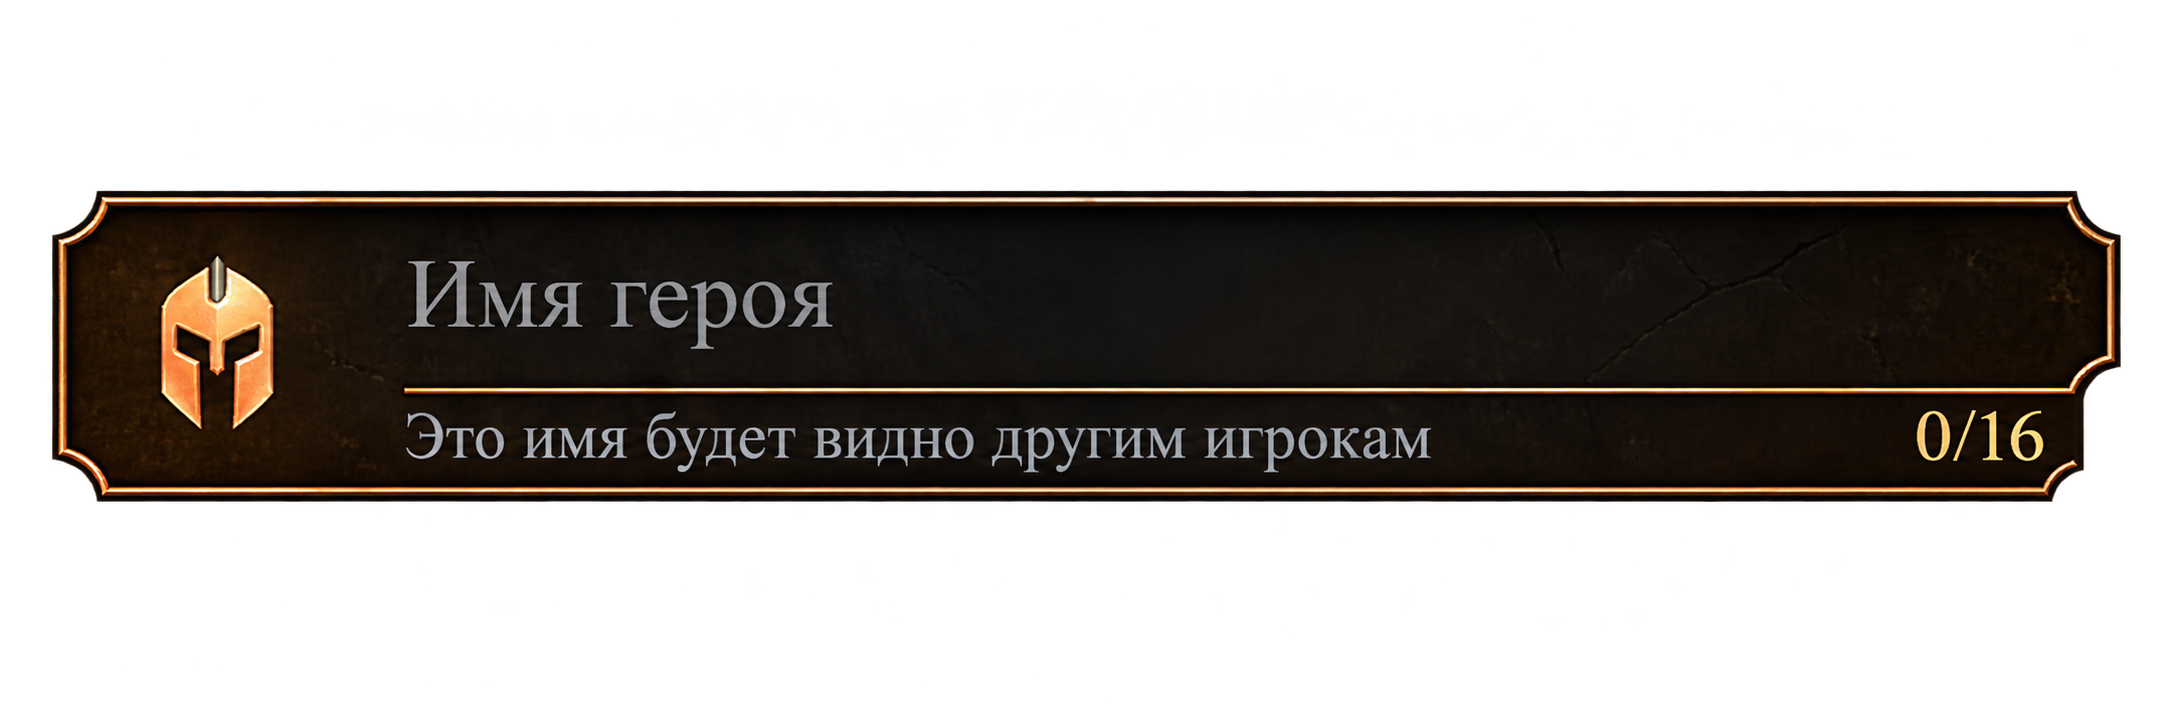
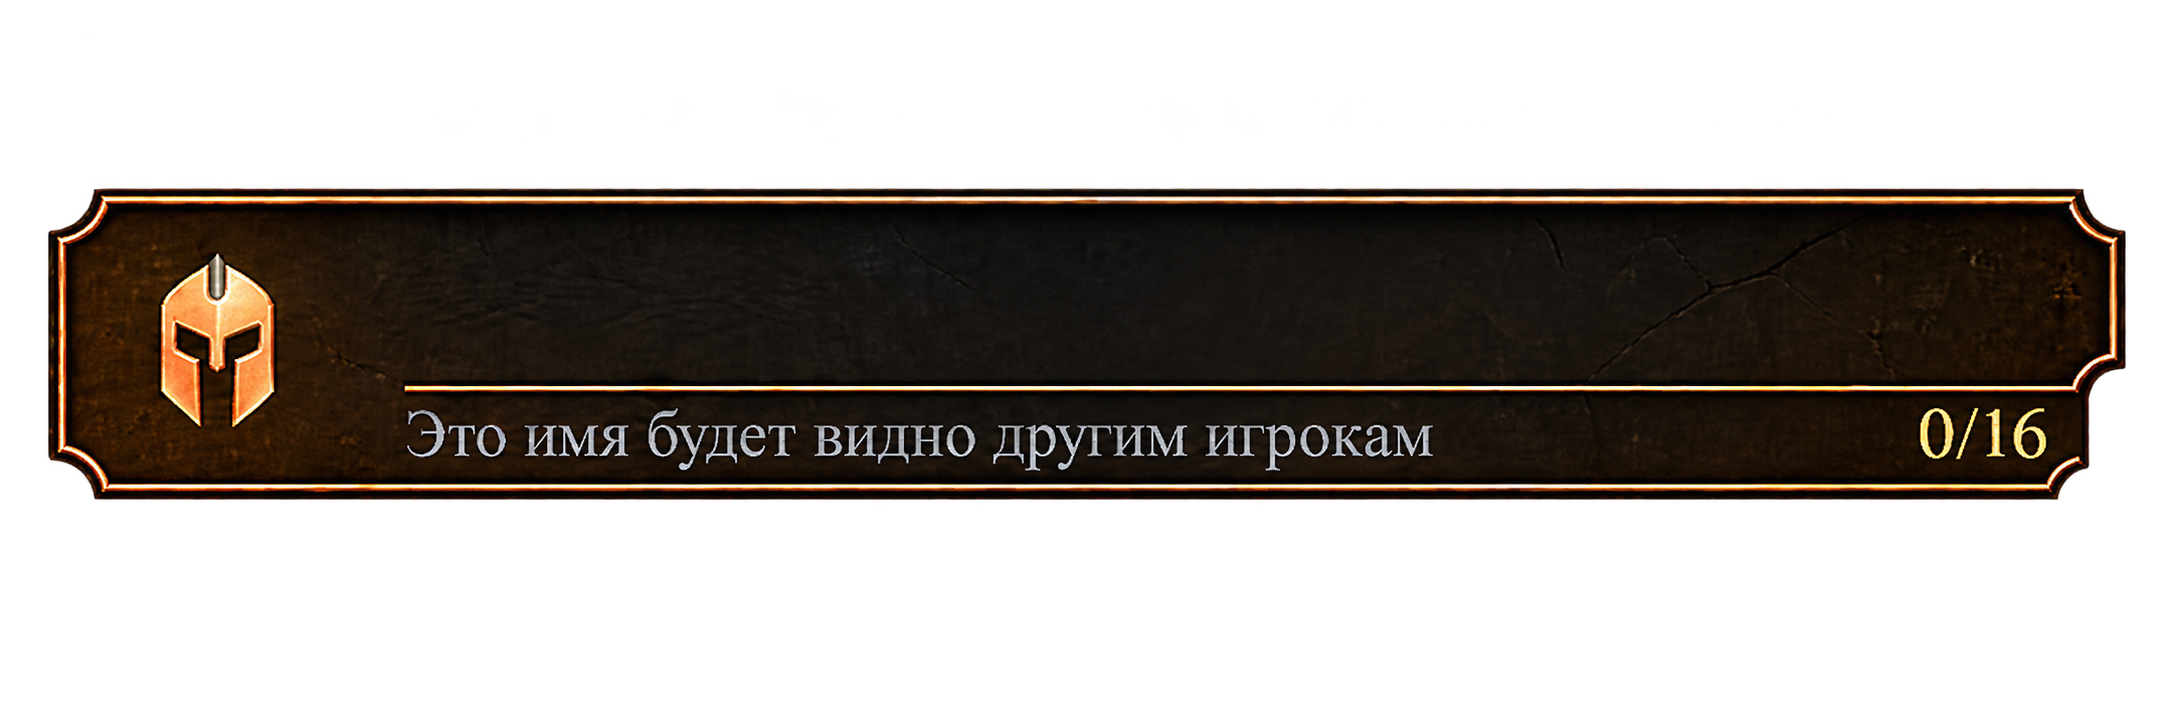
fix: polish character creation form alignment

Changed region(s): [[0.0, 0.2431, 0.9871, 0.6989], [0.1851, 0.3646, 0.401, 0.4862]]

diff --git a/frontend/src/index.css b/frontend/src/index.css
@@ -428,10 +428,10 @@ button, a { -webkit-tap-highlight-color: transparent; }
 
 .character-name-field input {
     position: absolute;
-    top: 31%;
+    top: 25%;
     left: 17.5%;
     width: 74%;
-    height: 27%;
+    height: 23%;
     padding: 0 .7rem;
     color: #ead9bd;
     font-family: "Cormorant Garamond", Georgia, serif;
@@ -442,7 +442,7 @@ button, a { -webkit-tap-highlight-color: transparent; }
 }
 
 .character-name-field input::placeholder { color: #817b75; }
-.character-name-field input:focus { box-shadow: inset 0 -.08rem 0 #d6944a, 0 0 .9rem rgba(224, 63, 23, .25); }
+.character-name-field input:focus { box-shadow: none; }
 
 .character-name-field__count {
     position: absolute;
@@ -454,7 +454,8 @@ button, a { -webkit-tap-highlight-color: transparent; }
     font-family: "Cormorant Garamond", Georgia, serif;
     font-size: clamp(.72rem, 1vw, .95rem);
     text-align: right;
-    background: transparent;
+    background: linear-gradient(90deg, rgba(15, 12, 9, .96), rgba(9, 8, 6, .98));
+    box-shadow: 0 0 .22rem .14rem rgba(10, 8, 6, .94);
     text-shadow: 0 0 .22rem #120d09, 0 0 .35rem #120d09;
 }
 
@@ -502,6 +503,7 @@ button, a { -webkit-tap-highlight-color: transparent; }
     font-family: "Cormorant Garamond", Georgia, serif;
     font-size: clamp(.95rem, 1.65vw, 1.35rem);
     text-shadow: 0 0 .35rem #000;
+    transform: translateY(-12%);
 }
 
 .character-stat-control button {
@@ -546,7 +548,7 @@ button, a { -webkit-tap-highlight-color: transparent; }
     z-index: 3;
     left: 24%;
     right: 24%;
-    bottom: 8.4%;
+    bottom: 10.8%;
     min-height: 0;
     aspect-ratio: 4.8 / 1;
     display: grid;

diff --git a/frontend/src/pages/CharacterCreationPage.tsx b/frontend/src/pages/CharacterCreationPage.tsx
@@ -113,13 +113,12 @@ export default function CharacterCreationPage() {
                             setName(event.target.value.slice(0, 16));
                             setError(null);
                         }}
+                        placeholder="Имя героя"
                         autoComplete="off"
                         maxLength={16}
                         autoFocus
                     />
-                    {name.length > 0 && (
-                        <span className="character-name-field__count">{name.length}/16</span>
-                    )}
+                    <span className="character-name-field__count">{name.length}/16</span>
                 </div>
 
                 <div className="character-stats-panel">
